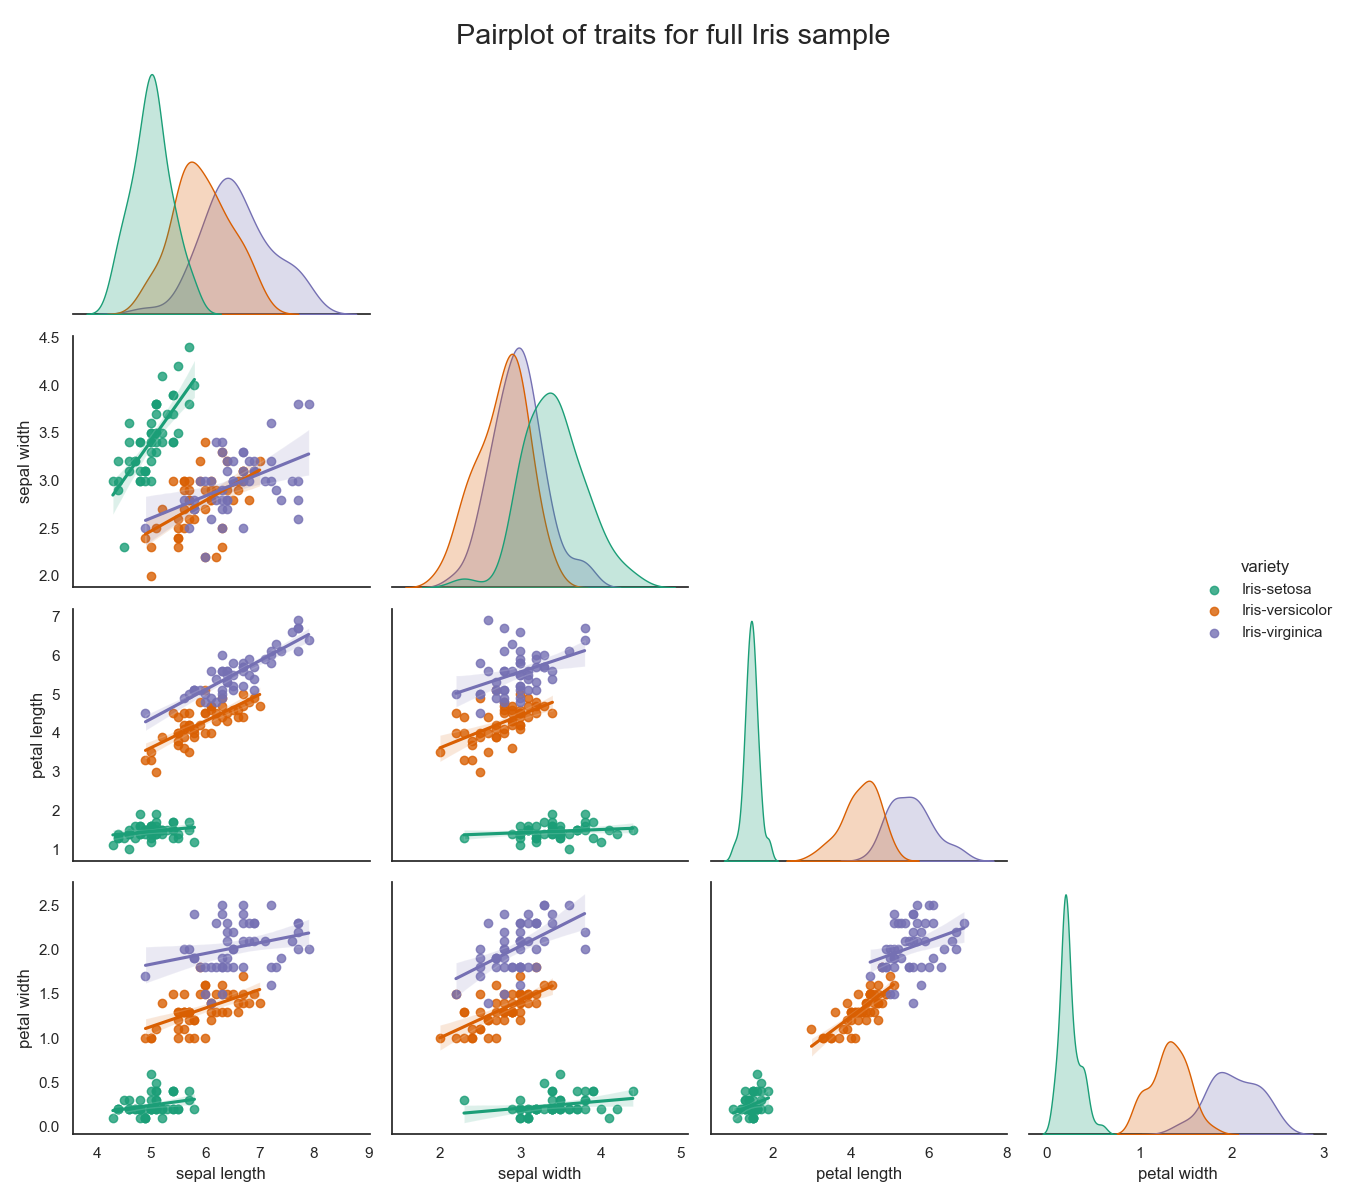
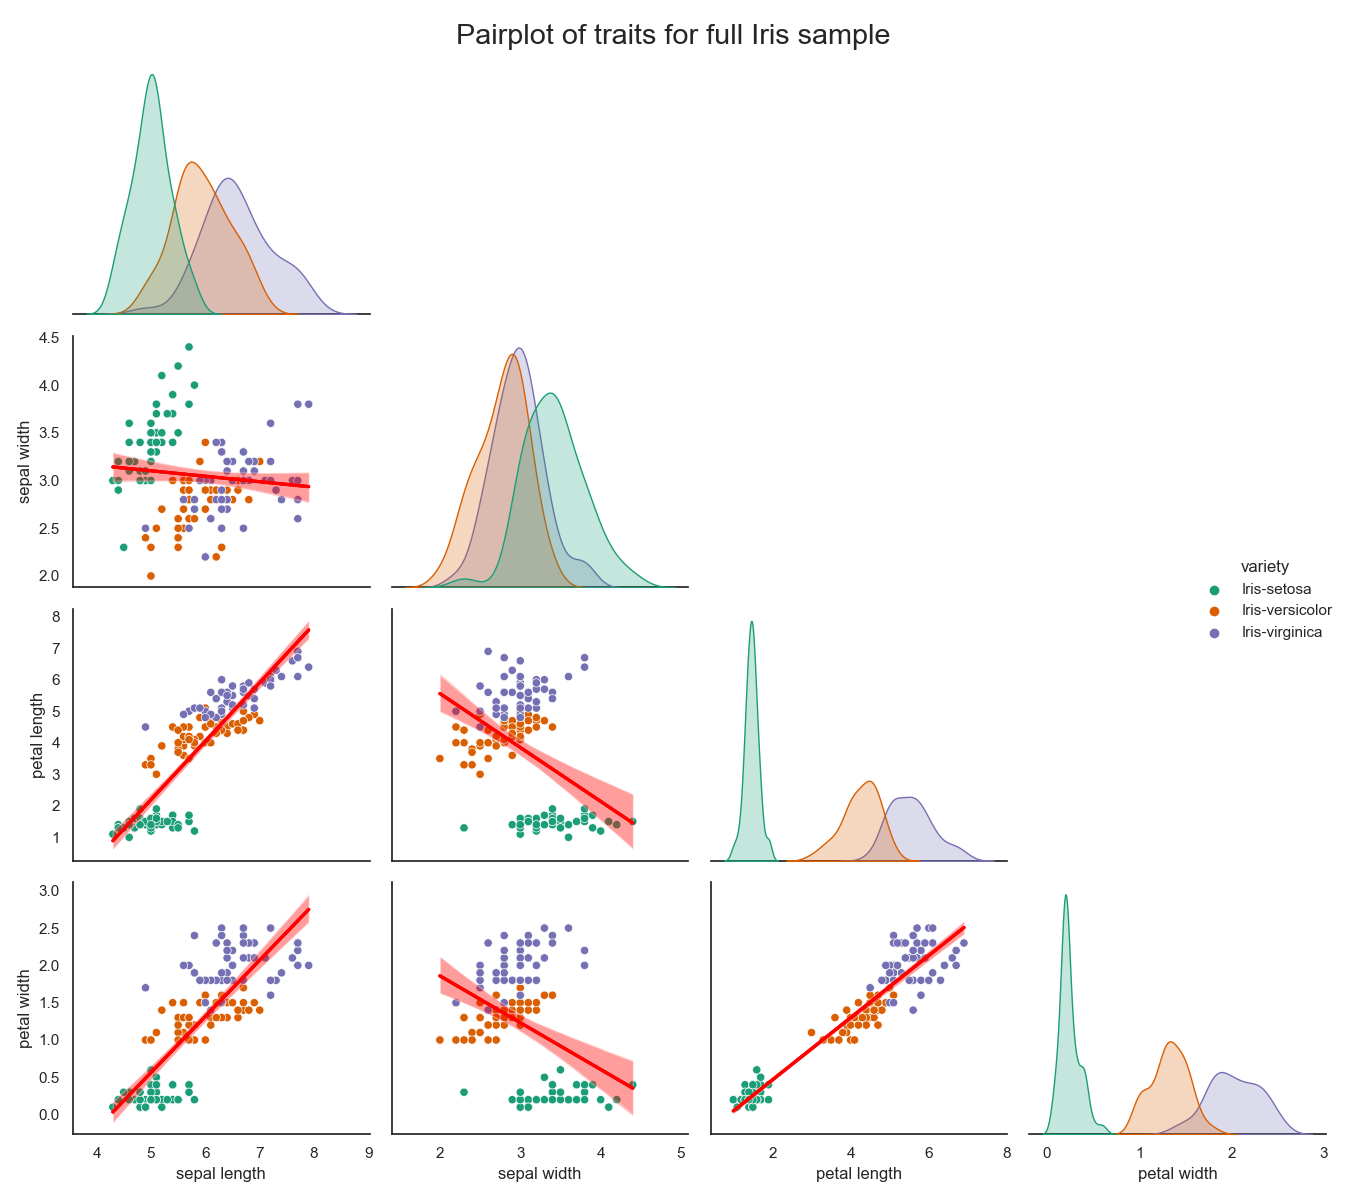
addition of correlation coefficients to summary statistics. addition of code for overall iris pairplot, to replace the regression lines which were imposed on each subset of data in each segment, with an overall regression line for the whole sample of data in each segment. additon of comments as back

diff --git a/analysis.py b/analysis.py
@@ -1,3 +1,4 @@
+
 # Importing the libraries I will use to complete the project
 
 import matplotlib.pyplot as plt
@@ -37,11 +38,10 @@ def summary_statistics():
 # This firstly transposes the output of the .describe() method, to make it easier to read it when it is printed out. 
 # References: https://numpy.org/doc/stable/reference/generated/numpy.transpose.html 
 
-
     transpose_summary = np.transpose(summary_stats)
     summary= transpose_summary
 
-    
+
 # The groupyby function in pandas allows us to split the dataframe into groups separated according to the data in the 
 # column with heading 'variety'. 
 # We can then generate summary statistics for each class of Iris in the dataset.
@@ -68,14 +68,15 @@ def summary_statistics():
 
 # I have also added the skewness of each trait among the population, to get an idea of how close to normal the distribution
 # of each trait is.
+
     skewsl = df["sepal length"].skew()
     skewsw = df["sepal width"].skew()
     skewpl = df["petal length"].skew()
     skewpw = df["petal width"].skew() 
 
+    print("\n\n")
     print("Below are some samples of rows of data found within the data frame.") 
     print("These reassure us that the dataframe has been created correctly, with appropriate headings,\ncapturing all data as expected, and taking a consistent form throughout.")
-    #print(dataframe_info)
     print("\n")
     print("First five rows: ")
     print(first_five_rows)
@@ -92,21 +93,30 @@ def summary_statistics():
     print("Here are the same summary statistics for each class of Iris flower: \n")
     print(summary_by_class)
     print("\n\n")
-    print("The coefficient of variation for each trait within the sample as a whole is as follows: \n")
+    print("The coefficient of variation for each trait within the sample as a whole is as follows: ")
     print(f'Sepal length: CoV = {sdsl/meansl}')
     print(f'Sepal width: CoV = {sdsw/meansw}')
     print(f'Petal length: CoV = {sdpl/meanpl}')
     print(f'Petal width: CoV = {sdpw/meanpw}')
     print("\n\n")
-    print("The skewness of each trait within the sample as a whole is as follows: \n ")
+    print("The skewness of each trait within the sample as a whole is as follows: ")
     print(f'Sepal length: Skewness = {skewsl}')
     print(f'Sepal width: Skewness = {skewsw}')
     print(f'Petal length: Skewness = {skewpl}')
     print(f'Petal width: Skewness = {skewpw}')
     print("\n\n")
+    print("Finally, here are the correlation coefficients for each pair of traits: ")
+    print("Sepal length vs Sepal width: ", np.corrcoef(df['sepal length'], df['sepal width'])[0,1])
+    print("Petal length vs Petal width: ",  np.corrcoef(df['petal length'], df['petal width'])[0,1], "\n")
+    print("Sepal length vs Petal length: ", np.corrcoef(df['sepal length'], df['petal length'])[0,1])
+    print("Sepal width vs Petal width: ", np.corrcoef(df['sepal width'], df['petal width'])[0,1], "\n")
+    print("Sepal length vs Petal width: ",  np.corrcoef(df['sepal length'], df['petal width'])[0,1])
+    print("Sepal width vs Petal length: ",  np.corrcoef(df['sepal width'], df['petal length'])[0,1])
+    print("\n\n")
     print("For a description of these summary statistics, please see the README file for this project.")
 
     f.close()
+
 
 # this calls the function defined above
 summary_statistics()
@@ -148,7 +158,24 @@ plt.savefig('petal_width_hist.png')
 
 sns.set(style = "white")
 
-iris_pairplot = sns.pairplot(df, hue = "variety", palette="Dark2", height=3, aspect=1, corner=True, kind="reg")
+iris_pairplot = sns.pairplot(df, hue = "variety", palette="Dark2", height=3, aspect=1, corner=True)
+
+# To plot a regression line in each non-diagonal segment of the overall Iris pairplot, I sought help by asking 
+# a question on stackoverflow: https://stackoverflow.com/questions/76217544/how-to-fit-regression-lines-on-each-non-diagonal-segment-of-a-pairplot-while-re
+# I wanted to retain the colour-coding of the data-points according to which Iris species they were sourced from, but wanted
+# to include just one regression line per segment (which applied to the whole sample), rather than three regression lines per segment
+# (as can be generated using the kind = "reg" argument.)
+# The contributor defined a function called 'regline', which plots a single regression line: this function is then passed into 
+# the .map_offdiag() function, which enables us to apply the 'regline' function to each non-diagonal segment in the pairplot.
+# by using x=x.name and y=y.name, we convert each trait name to a string, and each combination of traits can have a regression
+# line imposed on their values, because the function takes the names of the traits from the x and y axes of the pairplot.
+# Values for 'data' and 'color' are provided for the regline function when it is called.
+
+def regline(x, y, **kwargs):
+    sns.regplot(data=kwargs['data'], x=x.name, y=y.name, scatter=False, color=kwargs['color'])
+## Call the function for each non-diagonal subplot within pairplot
+iris_pairplot.map_offdiag(regline, color='red', data=df)
+
 iris_pairplot.fig.suptitle("Pairplot of traits for full Iris sample", fontsize = "xx-large")
 plt.tight_layout()
 plt.savefig('iris_pairplot.png')
@@ -158,6 +185,7 @@ plt.savefig('iris_pairplot.png')
 # that the entry in the 'variety' column equals one of the three varieties of Iris. I will then assign it to a variable 
 # and use that variable to create pairplots for each variety of Iris flower. 
 # Reference: https://sparkbyexamples.com/pandas/pandas-dataframe-loc/
+# For each of the individual Iris pairplots, the argument kind = "reg" allows us to impose regression lines straight on to the plots.
 
 setosa = df.loc[df['variety']=="Iris-setosa"]
 versicolor = df.loc[df['variety']=="Iris-versicolor"]
@@ -174,7 +202,6 @@ plt.savefig('versicolor_pairplot.png')
 virginica_pairplot = sns.pairplot(virginica, diag_kws=dict(color='grey'), plot_kws=dict(color = 'green'), height=3, aspect=1, corner=True, kind ="reg")
 virginica_pairplot.fig.suptitle("Pairplot of virginica traits", fontsize = "xx-large")
 plt.savefig('virginica_pairplot.png')
-
 
 
 # boxplots:
